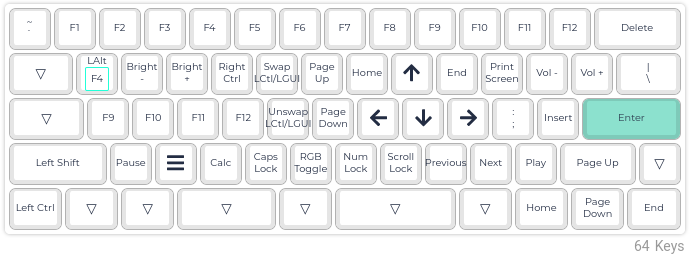
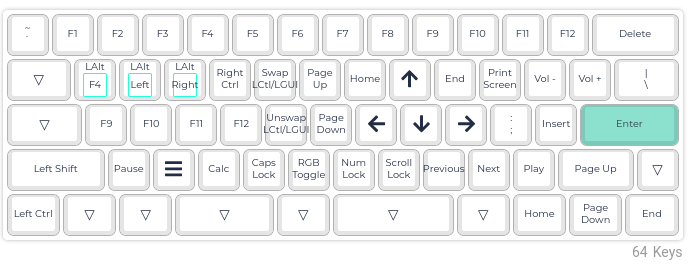
fix: final5

Changed region(s): [[0.0, 0.0, 1.0, 0.9808], [0.8826, 0.4291, 0.9435, 0.4904], [0.3348, 0.4291, 0.3652, 0.4598]]

diff --git a/qmk_firmware/keyboards/dz60/keymaps/dobrzan/keymap.c b/qmk_firmware/keyboards/dz60/keymaps/dobrzan/keymap.c
@@ -9,6 +9,6 @@
 
 const uint16_t PROGMEM keymaps[][MATRIX_ROWS][MATRIX_COLS] = {
 	[0] = LAYOUT_60_ansi_split_space_rshift(KC_ESC, KC_1, KC_2, KC_3, KC_4, KC_5, KC_6, KC_7, KC_8, KC_9, KC_0, KC_MINS, KC_EQL, KC_BSPC, KC_TAB, KC_Q, KC_W, KC_E, KC_R, KC_T, KC_Y, KC_U, KC_I, KC_O, KC_P, KC_LBRC, KC_RBRC, KC_DEL, MO(1), KC_A, KC_S, KC_D, KC_F, KC_G, KC_H, KC_J, KC_K, KC_L, KC_SCLN, KC_QUOT, KC_ENT, KC_LSFT, KC_Z, KC_X, KC_C, KC_V, KC_B, KC_N, KC_M, KC_COMM, KC_DOT, KC_SLSH, KC_UP, MO(1), KC_LCTL, KC_LGUI, KC_LALT, KC_SPC, KC_SPC, KC_SPC, KC_RALT, KC_LEFT, KC_DOWN, KC_RGHT),
-	[1] = LAYOUT_60_ansi_split_space_rshift(KC_GRV, KC_F1, KC_F2, KC_F3, KC_F4, KC_F5, KC_F6, KC_F7, KC_F8, KC_F9, KC_F10, KC_F11, KC_F12, KC_DEL, KC_TRNS, LALT(KC_F4), RGB_VAD, RGB_VAI, KC_RCTL, LCG_SWP, KC_PGUP, KC_HOME, KC_UP, KC_END, KC_PSCR, KC_VOLD, KC_VOLU, KC_BSLS, KC_TRNS, KC_F9, KC_F10, KC_F11, KC_F12, LCG_NRM, KC_PGDN, KC_LEFT, KC_DOWN, KC_RGHT, KC_SCLN, KC_INS, KC_ENT, KC_LSFT, KC_PAUS, KC_APP, KC_CALC, KC_CAPS, RGB_TOG, KC_NLCK, KC_SLCK, KC_MPRV, KC_MNXT, KC_MPLY, KC_PGUP, KC_TRNS, KC_LCTL, KC_TRNS, KC_TRNS, KC_TRNS, KC_TRNS, KC_TRNS, KC_TRNS, KC_HOME, KC_PGDN, KC_END)
+	[1] = LAYOUT_60_ansi_split_space_rshift(KC_GRV, KC_F1, KC_F2, KC_F3, KC_F4, KC_F5, KC_F6, KC_F7, KC_F8, KC_F9, KC_F10, KC_F11, KC_F12, KC_DEL, KC_TRNS, LALT(KC_F4), LALT(KC_LEFT), LALT(KC_RGHT), KC_RCTL, LCG_SWP, KC_PGUP, KC_HOME, KC_UP, KC_END, KC_PSCR, KC_VOLD, KC_VOLU, KC_BSLS, KC_TRNS, KC_F9, KC_F10, KC_F11, KC_F12, LCG_NRM, KC_PGDN, KC_LEFT, KC_DOWN, KC_RGHT, KC_SCLN, KC_INS, KC_ENT, KC_LSFT, KC_PAUS, KC_APP, KC_CALC, KC_CAPS, RGB_TOG, KC_NLCK, KC_SLCK, KC_MPRV, KC_MNXT, KC_MPLY, KC_PGUP, KC_TRNS, KC_LCTL, KC_TRNS, KC_TRNS, KC_TRNS, KC_TRNS, KC_TRNS, KC_TRNS, KC_HOME, KC_PGDN, KC_END)
 };
 
